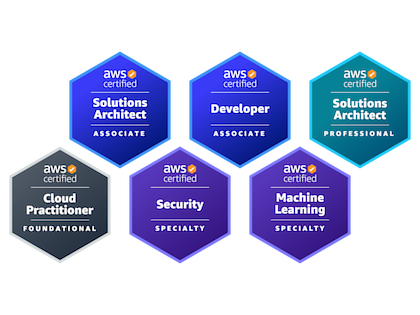
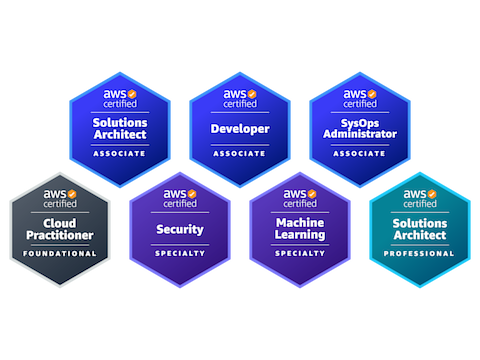
7x AWS Certified

diff --git a/README.md b/README.md
@@ -1,10 +1,10 @@
 Hi there, I'm Shigeki Shoji.
 
-Cloud Consultant | Cloud Solutions Architect | Translator | Speaker | 6X AWS Certified
+Cloud Consultant | Cloud Solutions Architect | Translator | Speaker | 7X AWS Certified
 
 [Credly](https://www.credly.com/users/username.835c802c/badges):
 
-![6x AWS Certified](badges.png)
+![AWS Certified](badges.png)
 
 ![AWS Learning](learning.png)
 
